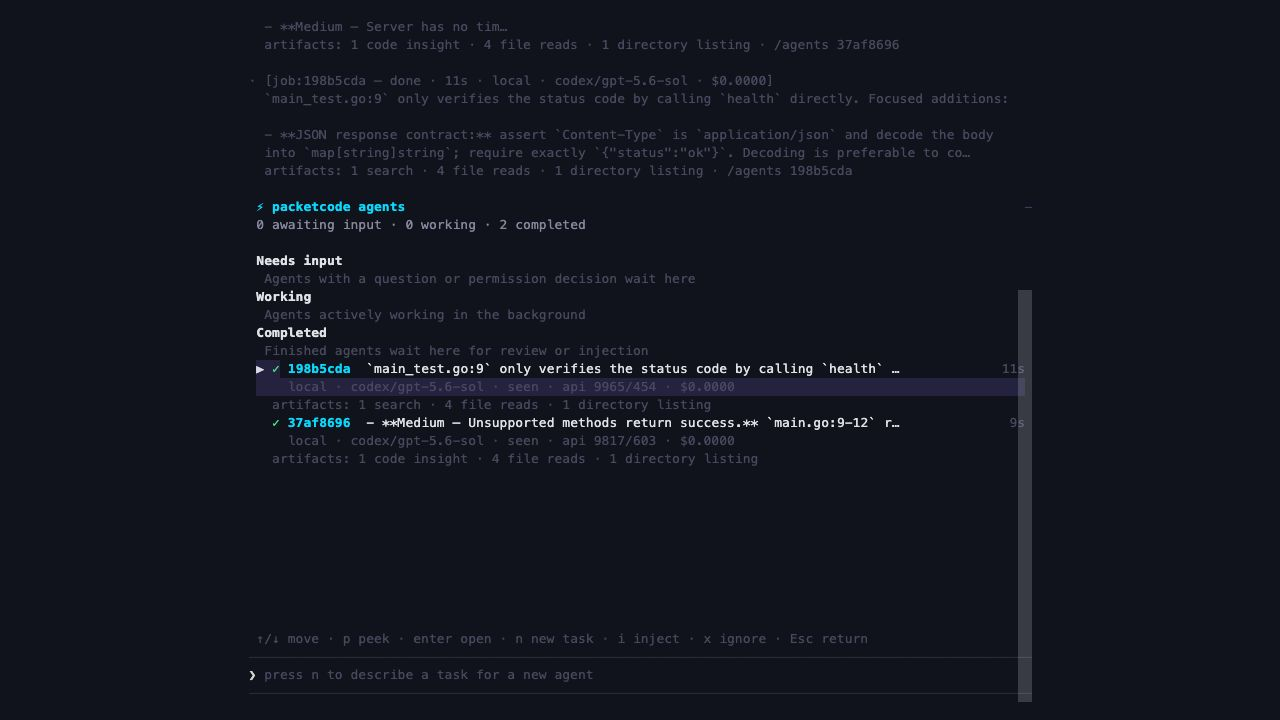
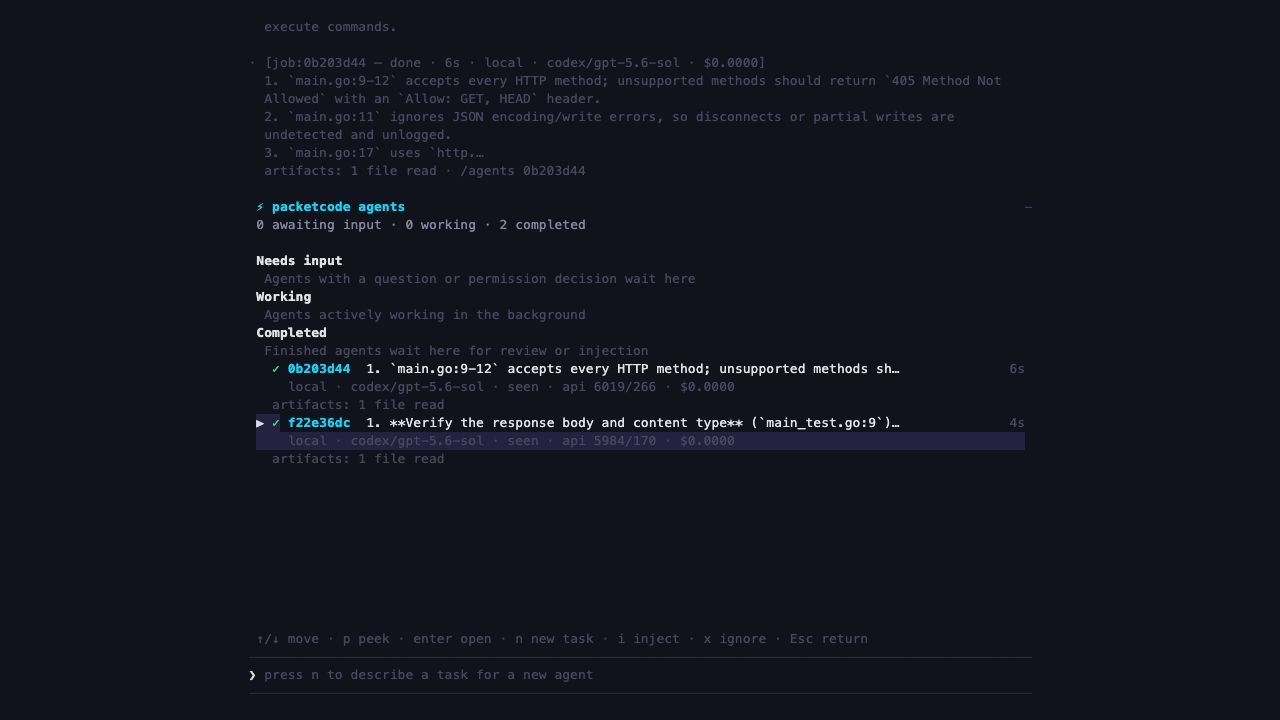
docs: refresh product screenshots for v0.6.3

Changed region(s): [[0.1875, 0.3972, 0.8125, 0.9778], [0.1875, 0.0306, 0.7812, 0.2444]]

diff --git a/site/index.html b/site/index.html
@@ -92,11 +92,12 @@
             <button id="showcase-tab-chat" role="tab" aria-selected="true" aria-controls="showcase-panel-chat" data-showcase-tab="chat">Conversation</button>
             <button id="showcase-tab-approval" role="tab" aria-selected="false" aria-controls="showcase-panel-approval" tabindex="-1" data-showcase-tab="approval">Approvals</button>
             <button id="showcase-tab-agents" role="tab" aria-selected="false" aria-controls="showcase-panel-agents" tabindex="-1" data-showcase-tab="agents">Background agents</button>
+            <button id="showcase-tab-models" role="tab" aria-selected="false" aria-controls="showcase-panel-models" tabindex="-1" data-showcase-tab="models">Model picker</button>
           </div>
         </div>
         <div id="showcase-panel-chat" class="showcase-panel" role="tabpanel" aria-labelledby="showcase-tab-chat" tabindex="0">
-          <a class="screenshot-preview" data-screenshot-open data-screenshot-title="Conversation" data-screenshot-crop="228,60,824,492" style="--shot-ratio:824/492;--shot-top:-12.195122%" href="assets/screenshots/packetcode-chat.jpg" target="_blank" rel="noopener" aria-label="View the full-size PacketCode conversation screenshot"><span class="screenshot-preview-frame"><img src="assets/screenshots/packetcode-chat.jpg" width="1280" height="720" alt="Actual PacketCode v0.6.2 session with its ASCII banner, a real Codex reply about a Go health endpoint, prompt composer, and native status line."></span><span class="screenshot-expand" aria-hidden="true">Enlarge screenshot <span>↗</span></span></a>
-          <div class="showcase-caption"><span class="caption-index">[ CONVERSATION ]</span><p>A real Codex conversation in PacketCode v0.6.2.</p><a href="guide/#first-session">Your first session <span aria-hidden="true">↗</span></a></div>
+          <a class="screenshot-preview" data-screenshot-open data-screenshot-title="Conversation" data-screenshot-crop="228,60,824,510" style="--shot-ratio:824/510;--shot-top:-11.764706%" href="assets/screenshots/packetcode-chat.jpg" target="_blank" rel="noopener" aria-label="View the full-size PacketCode conversation screenshot"><span class="screenshot-preview-frame"><img src="assets/screenshots/packetcode-chat.jpg" width="1280" height="720" alt="Actual PacketCode v0.6.3 session with its ASCII banner, a real Codex reply about a Go health endpoint, prompt composer, and native status line."></span><span class="screenshot-expand" aria-hidden="true">Enlarge screenshot <span>↗</span></span></a>
+          <div class="showcase-caption"><span class="caption-index">[ CONVERSATION ]</span><p>A real Codex conversation in PacketCode v0.6.3.</p><a href="guide/#first-session">Your first session <span aria-hidden="true">↗</span></a></div>
         </div>
         <div id="showcase-panel-approval" class="showcase-panel" role="tabpanel" aria-labelledby="showcase-tab-approval" tabindex="0" hidden>
           <a class="screenshot-preview" data-screenshot-open data-screenshot-title="Approvals" data-screenshot-crop="228,6,824,708" style="--shot-ratio:824/708;--shot-top:-0.847458%" href="assets/screenshots/packetcode-approval.jpg" target="_blank" rel="noopener" aria-label="View the full-size PacketCode approval screenshot"><span class="screenshot-preview-frame"><img src="assets/screenshots/packetcode-approval.jpg" width="1280" height="720" loading="lazy" alt="Actual PacketCode approval screen with a proposed README patch and the Allow once, Allow this tool this session, and Reject this request choices."></span><span class="screenshot-expand" aria-hidden="true">Enlarge screenshot <span>↗</span></span></a>
@@ -106,8 +107,12 @@
           <a class="screenshot-preview" data-screenshot-open data-screenshot-title="Background agents" data-screenshot-crop="228,186,824,528" style="--shot-ratio:824/528;--shot-top:-35.227273%" href="assets/screenshots/packetcode-agents.jpg" target="_blank" rel="noopener" aria-label="View the full-size PacketCode Agent View screenshot"><span class="screenshot-preview-frame"><img src="assets/screenshots/packetcode-agents.jpg" width="1280" height="720" loading="lazy" alt="Actual PacketCode Agent View showing two completed Codex background reviews of the Beacon example project, with timings and file-read artifacts."></span><span class="screenshot-expand" aria-hidden="true">Enlarge screenshot <span>↗</span></span></a>
           <div class="showcase-caption"><span class="caption-index">[ BACKGROUND AGENTS ]</span><p>Two real read-only reviews, completed in Agent View.</p><a href="guide/#agents">Put agents to work <span aria-hidden="true">↗</span></a></div>
         </div>
+        <div id="showcase-panel-models" class="showcase-panel" role="tabpanel" aria-labelledby="showcase-tab-models" tabindex="0" hidden>
+          <a class="screenshot-preview" data-screenshot-open data-screenshot-title="Model picker" data-screenshot-crop="228,12,824,528" style="--shot-ratio:824/528;--shot-top:-2.272727%" href="assets/screenshots/packetcode-models.jpg" target="_blank" rel="noopener" aria-label="View the full-size PacketCode model picker screenshot"><span class="screenshot-preview-frame"><img src="assets/screenshots/packetcode-models.jpg" width="1280" height="720" loading="lazy" alt="Actual PacketCode v0.6.3 model picker showing searchable Codex models, context windows, the current model, and the Ctrl+R refresh shortcut."></span><span class="screenshot-expand" aria-hidden="true">Enlarge screenshot <span>↗</span></span></a>
+          <div class="showcase-caption"><span class="caption-index">[ MODEL PICKER ]</span><p>The refreshed v0.6.3 model picker, with live Codex choices.</p><a href="guide/#providers">Choose your model <span aria-hidden="true">↗</span></a></div>
+        </div>
       </div>
-      <p class="screenshot-note">Captured from the released PacketCode v0.6.2 executable with real Codex responses in an isolated example project. Click a screenshot to enlarge it. Use the zoom controls to read the details, or open the complete original. <a href="https://github.com/packetloss404/packetcode/blob/main/docs/images/README.md">Capture notes <span aria-hidden="true">↗</span></a></p>
+      <p class="screenshot-note">Captured from the released PacketCode v0.6.3 executable with real Codex responses in an isolated example project. Click a screenshot to enlarge it. Use the zoom controls to read the details, or open the complete original. <a href="https://github.com/packetloss404/packetcode/blob/main/docs/images/README.md">Capture notes <span aria-hidden="true">↗</span></a></p>
     </section>
 
     <section class="providers-section container" aria-labelledby="providers-title">

diff --git a/tests/site/site.spec.js b/tests/site/site.spec.js
@@ -78,7 +78,7 @@ test('installation copy buttons put each complete command on the clipboard', asy
 
 test('workspace tabs switch real views and keep selection and focus synchronized', async ({ page }) => {
   const tabs = page.getByRole('tablist', { name: 'Explore the workspace' });
-  for (const [label, state] of [['Conversation', 'chat'], ['Approvals', 'approval'], ['Background agents', 'agents']]) {
+  for (const [label, state] of [['Conversation', 'chat'], ['Approvals', 'approval'], ['Background agents', 'agents'], ['Model picker', 'models']]) {
     const tab = tabs.getByRole('tab', { name: label, exact: true });
     await tab.click();
     await expect(tab).toHaveAttribute('aria-selected', 'true');
@@ -120,7 +120,7 @@ test('screenshots enlarge in place, zoom, fit, and return keyboard focus when cl
 });
 
 test('each workspace view enlarges the selected real capture', async ({ page }) => {
-  for (const [name, state] of [['Conversation', 'chat'], ['Approvals', 'approval'], ['Background agents', 'agents']]) {
+  for (const [name, state] of [['Conversation', 'chat'], ['Approvals', 'approval'], ['Background agents', 'agents'], ['Model picker', 'models']]) {
     await page.getByRole('tablist', { name: 'Explore the workspace' }).getByRole('tab', { name, exact: true }).click();
     await page.locator(`#showcase-panel-${state} [data-screenshot-open]`).click();
     const viewer = page.getByRole('dialog', { name, exact: true });

diff --git a/site/assets/site.css b/site/assets/site.css
@@ -92,7 +92,7 @@ h1 em,h2 em,.install-intro em{font-weight:400}
 .workspace-toolbar{display:flex;align-items:center;justify-content:space-between;gap:24px;min-height:70px;padding:12px 22px;border-bottom:1px solid #30392d}
 .workspace-brand{display:flex;align-items:center;gap:9px;color:#aebaa6;font:400 9px/1.5 var(--mono);letter-spacing:1px}
 .live-dot{width:5px;height:5px;border-radius:50%;background:#aec897}
-.showcase-tabs{display:flex;align-items:center;gap:5px}
+.showcase-tabs{display:flex;align-items:center;gap:5px;flex-wrap:wrap}
 .showcase-tabs button{background:transparent;color:#acb7a4;min-height:34px;border:1px solid transparent;border-radius:3px;padding:7px 12px;font:400 10px/1.4 var(--mono)}
 .showcase-tabs button[aria-selected=true]{color:#f1f4eb;border-color:#47513f;background:#293225}
 .showcase-tabs button:hover{color:#fff}
@@ -281,3 +281,5 @@ h1 em,h2 em,.install-intro em{font-weight:400}
   .guide-faq p { font-size:14px; }
   .guide-code pre, .code-block pre { font-size:11px; }
 }
+
+@media(max-width:640px){.showcase-tabs{display:grid;grid-template-columns:repeat(2,minmax(0,1fr))}}

diff --git a/docs/images/README.md b/docs/images/README.md
@@ -1,8 +1,8 @@
 # Product screenshots
 
 Captured on 2026-11-02 from the unmodified macOS Apple silicon executable in
-[release v0.6.2](https://github.com/packetloss404/packetcode/releases/tag/v0.6.2).
-The application reports commit `5df4e06b2b55a013ec4c3476b09f2d9c8205958c`.
+[release v0.6.3](https://github.com/packetloss404/packetcode/releases/tag/v0.6.3).
+The application reports commit `58065b5cc04c0fd69250b9d168e1e572acf5289f`.
 
 These are screenshots of ordinary PacketCode sessions using the real Codex
 provider and `gpt-5.6-sol`. The full application runs in a real PTY, with an
@@ -15,6 +15,7 @@ and `main_test.go`.
 | `packetcode-chat.jpg` | A real Codex response to a question about designing the example service's health endpoint. |
 | `packetcode-approval.jpg` | Codex proposed a README patch; PacketCode displayed the diff and waited for permission. The edit was not approved. |
 | `packetcode-agents.jpg` | Two `/spawn` commands launched actual read-only background reviews. `/agents` shows their completed jobs and artifacts. |
+| `packetcode-models.jpg` | `/model` opened the refreshed model picker with the actual Codex catalog and current-model selection. |
 
 ## Capture method
 
@@ -42,7 +43,7 @@ and screenshot bounds. Local ANSI recordings and session data stay in ignored
 
 1. Download the desired release and verify its archive against that release's
    `checksums.txt`. The original archive SHA-256 for these captures is
[2 lines of base64/hex data omitted]
 2. Prepare a disposable example project and a dedicated PacketCode data
    directory. Configure the Codex provider there and use an existing official
    Codex CLI login. Keep ordinary permission prompts enabled.

diff --git a/README.md b/README.md
@@ -22,7 +22,7 @@ guard remain independent per job.
 ## Interface
 
 <p align="center">
-  <a href="docs/images/packetcode-chat.jpg"><img src="docs/images/packetcode-chat.jpg" alt="Actual PacketCode v0.6.2 conversation with a real Codex response, prompt composer, and native status line" width="100%"></a>
+  <a href="docs/images/packetcode-chat.jpg"><img src="docs/images/packetcode-chat.jpg" alt="Actual PacketCode v0.6.3 conversation with a real Codex response, prompt composer, and native status line" width="100%"></a>
 </p>
 
 Permission-aware tool execution and the full background Agent workspace:
@@ -32,8 +32,9 @@ Permission-aware tool execution and the full background Agent workspace:
   <a href="docs/images/packetcode-agents.jpg"><img src="docs/images/packetcode-agents.jpg" alt="Actual PacketCode Agent View with two completed background reviews" width="49%"></a>
 </p>
 
-These screenshots were captured from the released v0.6.2 executable using real
-Codex responses in an isolated example project. See the
+These screenshots were captured from the released v0.6.3 executable using real
+Codex responses in an isolated example project. The website gallery also shows
+the refreshed [v0.6.3 model picker](docs/images/packetcode-models.jpg). See the
 [capture notes](docs/images/README.md) for provenance and regeneration tools.
 Reviewed text-and-style regression snapshots live in
 `testdata/tui/golden/packetcode/` and are checked by CI.

diff --git a/docs/website.md b/docs/website.md
@@ -31,8 +31,9 @@ or implement a separate installer.
 ## App screenshots
 
 The gallery and README use the same real executable captures in `docs/images/`.
-They show a Codex conversation, a pending file-edit approval, and completed
-background reviews in an isolated example project. The
+They show a Codex conversation, a pending file-edit approval, completed
+background reviews, and the refreshed model picker in PacketCode v0.6.3. All
+captures use the released executable in an isolated example project. The
 [capture notes](images/README.md) record the app version, release checksum,
 capture method, and regeneration tools. Click a gallery image to open the
 enlarged viewer, zoom with + / −, fit the image to the screen, or open the

diff --git a/CHANGELOG.md b/CHANGELOG.md
@@ -5,6 +5,9 @@ All notable packetcode changes are recorded here. The project is pre-1.0;
 
 ## [Unreleased]
 
+- Website and README screenshots now show real sessions from the v0.6.3
+  release, with an additional gallery view of its refreshed model picker.
+
 - Screenshot previews use a wider gallery and focus on the app. An enlarged
   viewer adds zoom, fit-to-screen, scrolling, keyboard controls, and access to
   the complete original captures.
